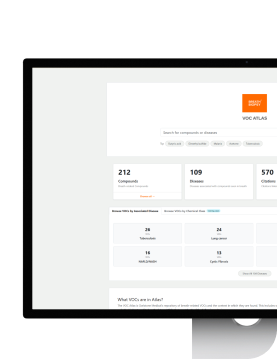
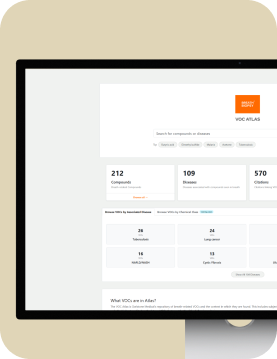
more accurate video posters

diff --git a/src/css/style.css b/src/css/style.css
@@ -43,6 +43,7 @@
 .font-xkcd {
   font-family: 'xkcd', sans-serif !important;
   text-transform: uppercase;
+  font-size: 2rem;
 }
 
 [x-cloak] {
@@ -96,10 +97,12 @@
 
 ol {
   margin-bottom: 1rem;
+  margin-left: 2rem;
 }
 
 ul:not(.nav) li {
-  margin-bottom: 0.2rem;
+  margin-bottom: 1rem;
+  margin-left: 2rem;
 }
 
 p {
@@ -604,9 +607,18 @@ a {
   font-weight: 600;
 }
 
+@media (prefers-reduced-motion: no-preference) {
+  .mobile-topnav .nav-link.active {
+    view-transition-name: active-nav;
+  }
 
+  ::view-transition-old(active-nav),
+  ::view-transition-new(active-nav) {
+    animation-duration: 300ms;
+    animation-timing-function: cubic-bezier(0.4, 0, 0.2, 1);
+  }
+}
 
-/* Page wrapper — centres everything on very wide screens */
 .page-wrapper {
   display: flex;
   max-width: 1100px;
@@ -614,7 +626,6 @@ a {
   width: 100%;
 }
 
-/* Sidebar nav (large screens) */
 .sidebar-nav {
   position: sticky;
   top: 0;
@@ -797,7 +808,6 @@ a {
   margin-top: 0rem;
 }
 
-/* Gallery controls */
 .gallery-controls {
   display: flex;
   justify-content: flex-end;
@@ -840,9 +850,7 @@ a {
   display: block;
 }
 
-/* Gallery */
 .gallery-marquee-container {
-  /* Provide Splide overflow mask to mimic the fade effect */
   mask-image: linear-gradient(to right, transparent, black 15%, black 85%, transparent);
   -webkit-mask-image: linear-gradient(to right, transparent, black 15%, black 85%, transparent);
   -webkit-transform: translateZ(0);
@@ -851,7 +859,6 @@ a {
 
 .gallery-link {
   border-radius: 2rem;
-  /* rounded-5 */
   overflow: hidden;
   position: relative;
   display: block;
@@ -885,11 +892,8 @@ picture:has(> .gallery-img) {
   align-items: center;
   padding: 1.5rem;
   border-radius: 2rem;
-  /* Matches Bootstrap rounded-5 */
   background-color: rgba(33, 37, 41, 0.5);
-  /* Matches bg-dark bg-opacity-50 */
   color: #fff;
-  /* Matches text-white */
   opacity: 0;
   transition: opacity 0.25s ease;
 }
@@ -918,7 +922,6 @@ picture:has(> .gallery-img) {
 }
 
 
-/* Animations */
 @keyframes fadeIn {
   from {
     opacity: 0;
@@ -956,7 +959,6 @@ picture:has(> .gallery-img) {
   animation-delay: 0.7s;
 }
 
-/* Shared icon/utility classes */
 .icon-arrow-circle,
 .project-link-btn {
   display: flex;
@@ -990,7 +992,6 @@ picture:has(> .gallery-img) {
   line-height: 1;
 }
 
-/* Article image clamping */
 .card-text img {
   max-width: 100%;
   height: auto;
@@ -999,7 +1000,6 @@ picture:has(> .gallery-img) {
   margin: 2rem auto;
 }
 
-/* Article header image — enforce 16:9 aspect ratio */
 picture:has(> .img-fluid) {
   display: block;
   aspect-ratio: 16 / 9;
@@ -1013,7 +1013,6 @@ picture:has(> .img-fluid)>img {
   object-fit: cover;
 }
 
-/* Bento Grid Layout */
 .bento-grid {
   display: grid;
   grid-template-columns: repeat(4, 1fr);
@@ -1276,7 +1275,7 @@ picture:has(> .img-fluid)>img {
   width: 240px;
   min-width: 240px;
   position: sticky;
-  top: 56px;
+  top: 100px;
   max-height: calc(100vh - 56px);
   overflow-y: auto;
   border-right: 1px solid var(--border-color);
@@ -1292,16 +1291,10 @@ picture:has(> .img-fluid)>img {
   list-style: none;
 }
 
-.item-sidebar__heading {
-  letter-spacing: 0.08em;
-  font-size: 0.7rem;
-}
-
 .item-sidebar__nav ul {
   display: flex;
   flex-direction: column;
   gap: 0.35rem;
-  /* slight gap for pills */
 }
 
 .item-sidebar__link {
@@ -1326,7 +1319,6 @@ picture:has(> .img-fluid)>img {
   font-weight: 600;
 }
 
-/* Main content column */
 .item-main {
   flex: 1;
   min-width: 0;
@@ -1365,7 +1357,6 @@ picture:has(> .img-fluid)>img {
   display: inline-block !important;
 }
 
-/* sm: ≥576px */
 @media (min-width: 576px) {
   .d-sm-none {
     display: none !important;
@@ -1388,7 +1379,6 @@ picture:has(> .img-fluid)>img {
   }
 }
 
-/* md: ≥768px */
 @media (min-width: 768px) {
   .d-md-none {
     display: none !important;
@@ -1493,7 +1483,6 @@ picture:has(> .img-fluid)>img {
   vertical-align: text-top;
 }
 
-/* Dialog Styles */
 .shortcuts-dialog {
   margin: auto;
   padding: 0;
@@ -1562,12 +1551,10 @@ picture:has(> .img-fluid)>img {
   }
 }
 
-/* Semantic Layout Variables */
 :root {
   --section-spacing: var(--spacing-5);
 }
 
-/* Sections & Typography */
 .page-section {
   margin-block-end: var(--section-spacing);
 }
@@ -1596,7 +1583,6 @@ picture:has(> .img-fluid)>img {
   font-family: var(--font-heading);
 }
 
-/* Grids */
 .grid-list {
   display: grid;
   grid-template-columns: 1fr;
@@ -1613,7 +1599,6 @@ picture:has(> .img-fluid)>img {
   gap: var(--spacing-2);
 }
 
-/* UI Utilities */
 .filter-group {
   display: flex;
   justify-content: center;
@@ -1659,7 +1644,6 @@ picture:has(> .img-fluid)>img {
   align-items: stretch;
 }
 
-/* Grid Item Height Unification */
 .grid-item {
   display: flex;
   flex-direction: column;
